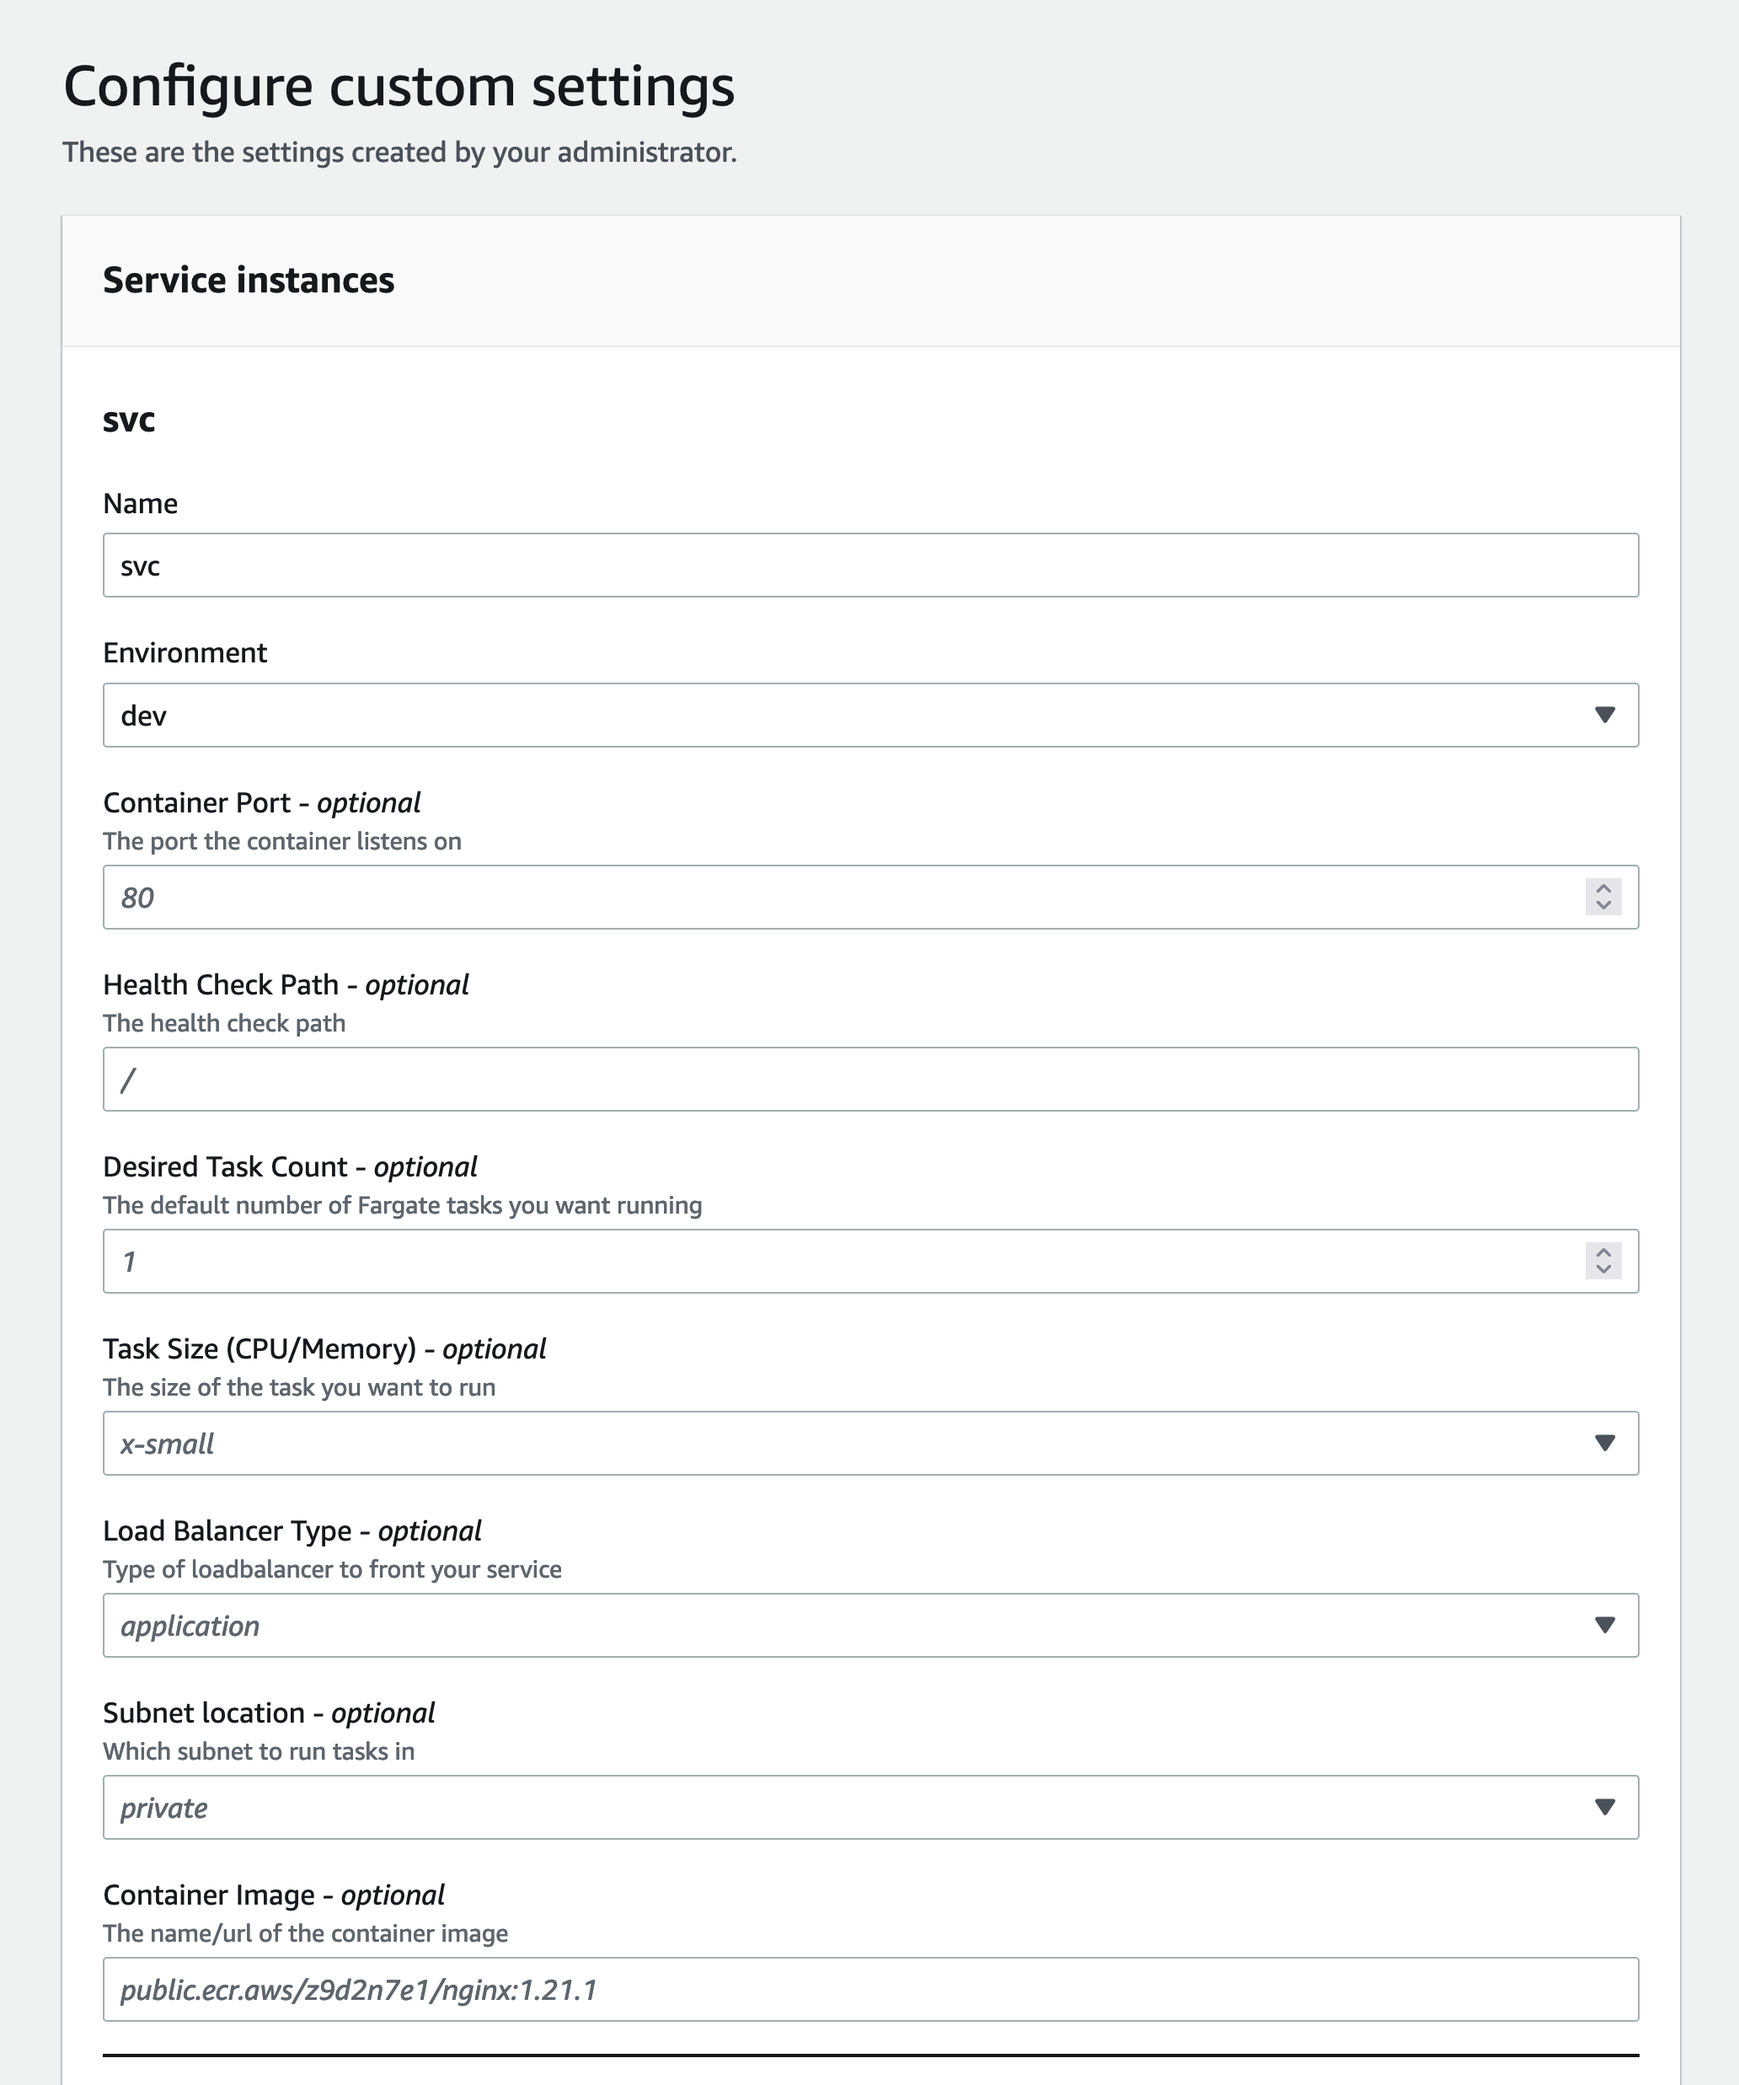
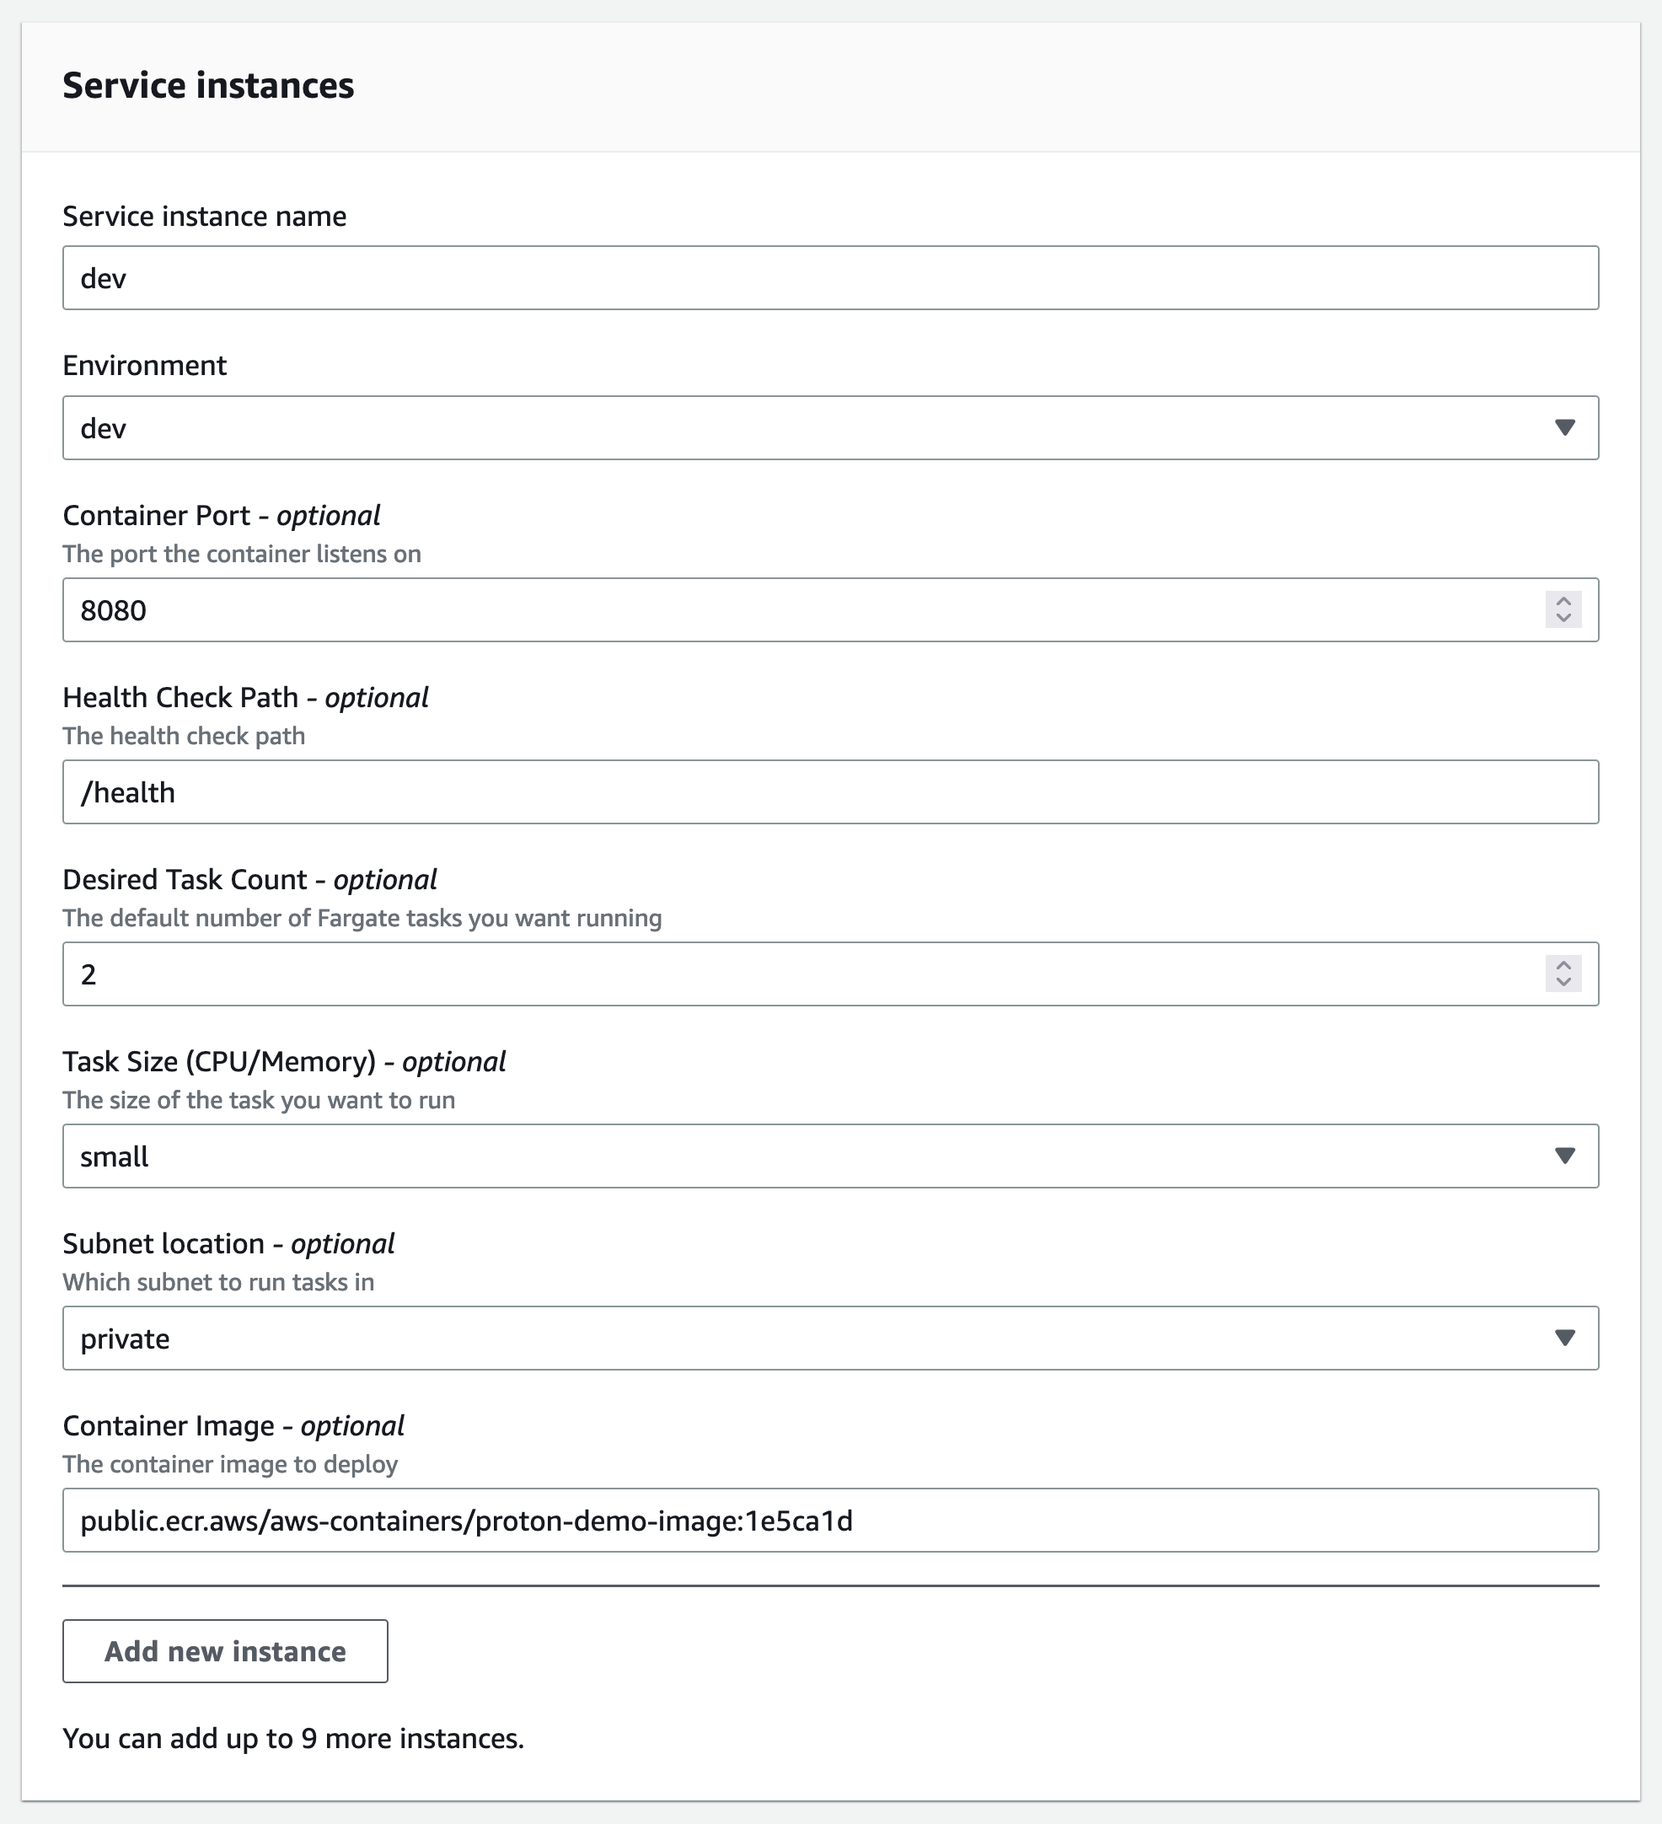
tf-ecs-fargate-codepipeline conditional deploys (#40)
* tf-ecs-fargate-codepipeline conditional deploys

This changes the `tf-ecs-fargate-lb-service-cicd-codepipeline` template
to allow the user to specify which service instances they would like the
generated ci/cd pipeline to continuously deploy to.

* fixes typo in comment

* updates screenshots to show list of instances

diff --git a/terraform/service-templates/tf-ecs-fargate-lb-service-cicd-codepipeline/v1/README.md b/terraform/service-templates/tf-ecs-fargate-lb-service-cicd-codepipeline/v1/README.md
@@ -27,6 +27,7 @@ make template bucket=my-bucket version=1
 ### Input Parameters
 
 ![input](./input.png)
+![pipeline](./pipeline.png)
 
 
 ## Security
